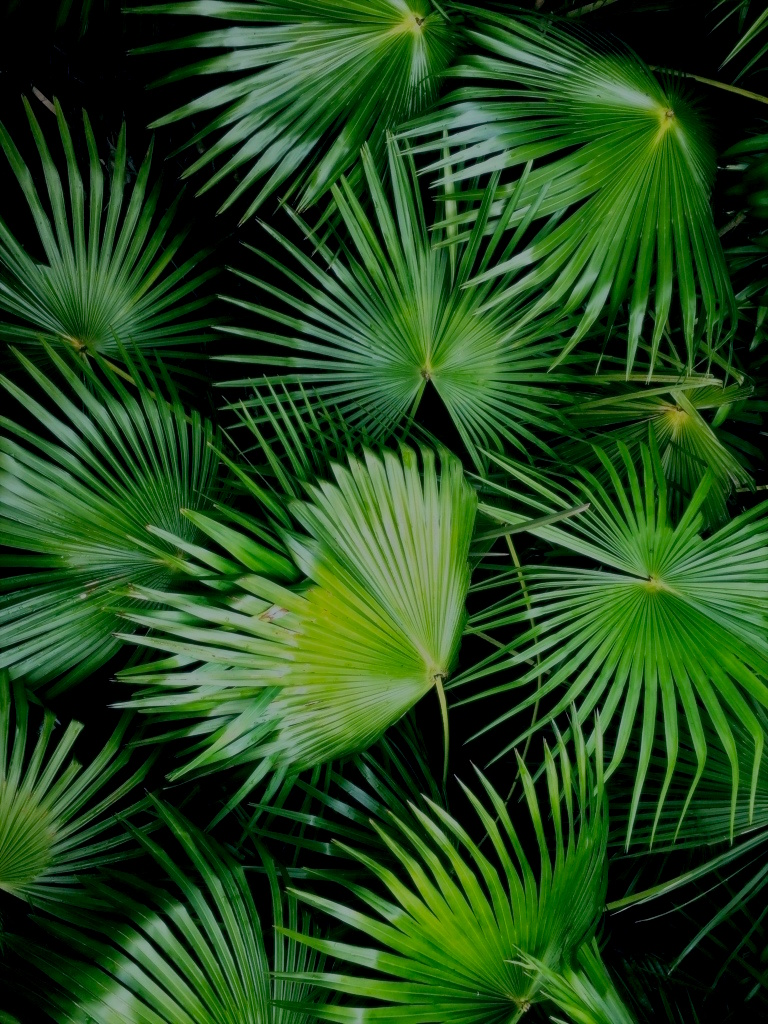
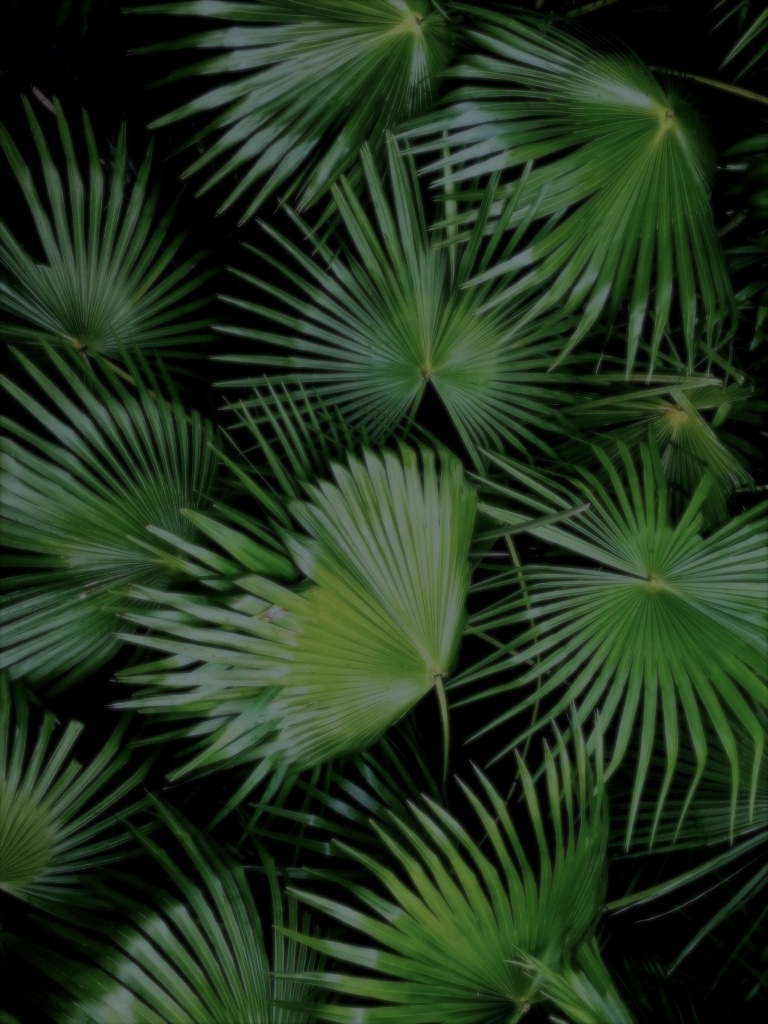
Thursday late evening

diff --git a/index.html b/index.html
@@ -8,7 +8,7 @@
   <script src="https://ajax.googleapis.com/ajax/libs/jquery/3.2.1/jquery.min.js"></script>
   <link rel="stylesheet" href="https://maxcdn.bootstrapcdn.com/bootstrap/3.3.7/css/bootstrap.min.css" integrity="sha384-BVYiiSIFeK1dGmJRAkycuHAHRg32OmUcww7on3RYdg4Va+PmSTsz/K68vbdEjh4u" crossorigin="anonymous">
   <link rel="stylesheet" href="https://maxcdn.bootstrapcdn.com/bootstrap/3.3.7/css/bootstrap-theme.min.css" integrity="sha384-rHyoN1iRsVXV4nD0JutlnGaslCJuC7uwjduW9SVrLvRYooPp2bWYgmgJQIXwl/Sp" crossorigin="anonymous">
-  <link href="https://fonts.googleapis.com/css?family=Caesar+Dressing" rel="stylesheet">
+  <link href="https://fonts.googleapis.com/css?family=Caesar+Dressing|Open+Sans"rel="stylesheet">
   <link rel='stylesheet' type='text/css' href='css/style.css'>
   <title>Bouncing Animals</title>
 </head>
@@ -19,7 +19,7 @@
   <!-- <a href="index.html"></button> -->
 <div class="wrapper">
   <div class="instructions box">
-    <h2 id="font">INSTRUCTIONS</h2>
+    <h2>INSTRUCTIONS</h2>
     <h3 id="font">What would happen if animals ate fast food?</h3>
     <p>Meet Albert the impala! He needs to eat as many hamburgers as possible before he is caught by Leonard the leopard. When Albert the impala is as big as Leonard the leopard, Albert will win!
       <br> Move your arrows to catch the hamburguers. SAVE ALEBERT! </p>

diff --git a/css/style.css b/css/style.css
@@ -14,6 +14,11 @@ body {
   font-family: robot
 }
 
+p{
+  font-family: "Open Sans";
+  font-size: 1.5em;
+}
+
 h1{
   font-family: "Caesar Dressing", cursive;
   color: white;
@@ -27,12 +32,13 @@ h1{
 }
 
 h2{
-font-size: 2em;
+font-size: 3em;
 font-family: "Caesar Dressing", cursive;
+color: red;
 }
 
 h3{
-font-size: 1.3em;
+font-size: 2em;
 font-family: "Caesar Dressing", cursive;
 }
 
@@ -44,14 +50,17 @@ font-family: "Caesar Dressing", cursive;
 background-color: white;
 border-radius: 10px;
 border: 3px solid #133a13;
-width: 200px;
-height: 400px;
+width: 220px;
+height: 500px;
 margin: auto;
+padding: 10px;
+text-align: center;
 
 }
 
 .instructions-box{
   display : inline-flex
+  padding: 10px;
 }
 
 
@@ -71,22 +80,21 @@ margin: auto;
   left: 20%;
   top:20%;
   z-index: -1;
-
 }
 
 
 
 
 .life-status {
-  font-size: 0.7em;
+  font-size: 2em;
 }
 
 .points {
-  font-size: 1.2em;
+  font-size: 2em;
 }
 
 .lives {
-  font-size: 1em;
+  font-size: 2em;
 }
 
 .lost {

diff --git a/css/cover.css b/css/cover.css
@@ -2,10 +2,8 @@
 @import 'https://fonts.googleapis.com/css?family=Caesar+Dressing';
 
 body {
-  background-image: url(../img/cover-background.jpg);
+  background-image: url(../img/fondo-tropical.png);
   background-repeat: no-repeat;
-  background-size: cover;
-  background-position: center;
 }
 
 @keyframes background {
@@ -27,7 +25,19 @@ h1 {
   background-size: 200px auto;
   -webkit-text-fill-color: transparent;
   -webkit-background-clip: text;
-  -webkit-text-stroke-width: 3px;
+  -webkit-text-stroke-width: 4px;
    -webkit-text-stroke-color: black;
   animation: background 10s infinite linear;
+}
+
+button {
+  margin-left: 600px;
+  margin-top: -10px;
+  border-radius: 40px;
+  background-color: red;
+  text-decoration: none;
+  color: white;
+  padding: 20px;
+  font-size: 2em;
+  font-family:
 }

diff --git a/js/Player.js b/js/Player.js
@@ -79,5 +79,6 @@ function Player(x, y, radius) {
     if(this.radius > (objectRadius + 20)){
       $(".life-status").html("Yei!! You won!");
       $(".win").toggleClass("winnerDiv");
+      window.cancelAnimationFrame(reqAni);
     }
   }
